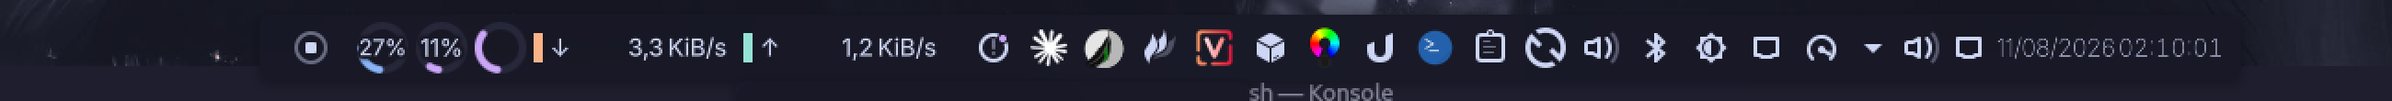
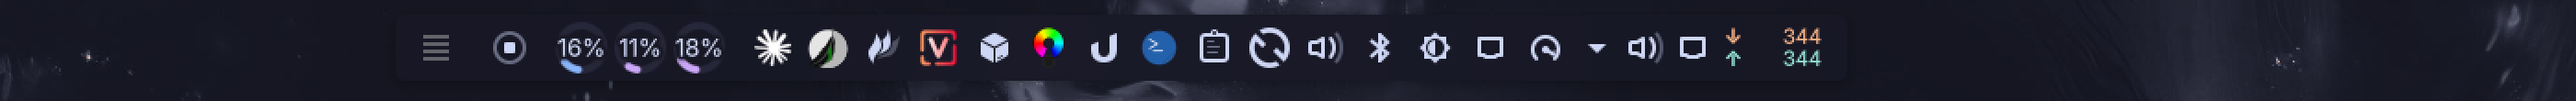
Round 3: custom netspeed + peek plasmoids, Klassy deco, Burn-My-Windows, custom KSplash, yakuake skin, desktop widgets

diff --git a/plasma/plasmoids/com.hieubt.netspeed/contents/ui/main.qml b/plasma/plasmoids/com.hieubt.netspeed/contents/ui/main.qml
@@ -1,0 +1,65 @@
+import QtQuick
+import QtQuick.Layouts
+import org.kde.plasma.plasmoid
+import org.kde.ksysguard.sensors as Sensors
+
+PlasmoidItem {
+    id: root
+
+    readonly property color downColor: "#fab387"   // peach
+    readonly property color upColor:   "#94e2d5"   // teal
+
+    Sensors.Sensor { id: downSensor; sensorId: "network/all/download"; updateRateLimit: 1000 }
+    Sensors.Sensor { id: upSensor;   sensorId: "network/all/upload";   updateRateLimit: 1000 }
+
+    function fmt(bytes) {
+        if (bytes >= 1073741824) return (bytes / 1073741824).toFixed(1) + "G"
+        if (bytes >= 1048576)    return (bytes / 1048576).toFixed(1) + "M"
+        if (bytes >= 1024)       return Math.round(bytes / 1024) + "K"
+        return Math.round(bytes || 0) + ""
+    }
+
+    preferredRepresentation: fullRepresentation
+
+    fullRepresentation: Item {
+        id: rep
+
+        TextMetrics {
+            id: metrics
+            font.pixelSize: 11
+            text: "888.8M"
+        }
+
+        Layout.minimumWidth: metrics.width + 20
+        Layout.preferredWidth: Layout.minimumWidth
+        Layout.maximumWidth: Layout.minimumWidth
+        Layout.fillHeight: true
+
+        GridLayout {
+            anchors.centerIn: parent
+            columns: 2
+            rowSpacing: -2
+            columnSpacing: 3
+
+            Text { text: "↓"; color: root.downColor; font.pixelSize: 11; font.bold: true }
+            Text {
+                text: root.fmt(downSensor.value)
+                color: root.downColor
+                font.pixelSize: 11
+                horizontalAlignment: Text.AlignRight
+                Layout.preferredWidth: metrics.width
+            }
+            Text { text: "↑"; color: root.upColor; font.pixelSize: 11; font.bold: true }
+            Text {
+                text: root.fmt(upSensor.value)
+                color: root.upColor
+                font.pixelSize: 11
+                horizontalAlignment: Text.AlignRight
+                Layout.preferredWidth: metrics.width
+            }
+        }
+    }
+
+    toolTipMainText: "Mạng"
+    toolTipSubText: "↓ " + fmt(downSensor.value) + "B/s   ↑ " + fmt(upSensor.value) + "B/s"
+}

diff --git a/plasma/look-and-feel/org.kde.catppuccin.splash/contents/splash/Splash.qml b/plasma/look-and-feel/org.kde.catppuccin.splash/contents/splash/Splash.qml
@@ -1,0 +1,71 @@
+import QtQuick 2.5
+
+Rectangle {
+    id: root
+    color: "#1e1e2e"
+
+    property int stage
+    onStageChanged: {
+        if (stage == 1) introAnimation.running = true
+    }
+
+    Image {
+        anchors.fill: parent
+        source: "images/background.jpg"
+        fillMode: Image.PreserveAspectCrop
+        opacity: 0.85
+    }
+
+    Item {
+        id: content
+        anchors.fill: parent
+        opacity: 0
+        TextMetrics {
+            id: units
+            text: "M"
+            property int gridUnit: boundingRect.height
+            property int largeSpacing: units.gridUnit
+            property int smallSpacing: Math.max(2, gridUnit / 4)
+        }
+
+        // chữ chào giữa màn
+        Text {
+            anchors.horizontalCenter: parent.horizontalCenter
+            anchors.bottom: bar.top
+            anchors.bottomMargin: units.gridUnit * 2
+            text: "hieubt"
+            color: "#cdd6f4"
+            font.pointSize: 22
+            font.weight: Font.Light
+        }
+
+        // thanh nạp mauve
+        Rectangle {
+            id: bar
+            anchors.centerIn: parent
+            anchors.verticalCenterOffset: parent.height / 4
+            width: parent.width / 5
+            height: 6
+            radius: 3
+            color: "#313244"
+
+            Rectangle {
+                height: parent.height
+                radius: 3
+                color: "#cba6f7"
+                width: (root.stage / 6) * parent.width
+                Behavior on width { NumberAnimation { duration: 250; easing.type: Easing.InOutQuad } }
+            }
+        }
+    }
+
+    OpacityAnimator {
+        id: introAnimation
+        running: false
+        target: content
+        from: 0
+        to: 1
+        duration: 800
+        easing.type: Easing.InOutQuad
+    }
+}

diff --git a/plasma/plasmoids/com.hieubt.peek/contents/ui/main.qml b/plasma/plasmoids/com.hieubt.peek/contents/ui/main.qml
@@ -1,0 +1,54 @@
+import QtQuick
+import QtQuick.Layouts
+import org.kde.plasma.plasmoid
+import org.kde.plasma.plasma5support as P5Support
+
+PlasmoidItem {
+    id: root
+
+    readonly property color mauve: "#cba6f7"
+
+    P5Support.DataSource {
+        id: runner
+        engine: "executable"
+        onNewData: (sourceName) => disconnectSource(sourceName)
+    }
+
+    preferredRepresentation: fullRepresentation
+
+    fullRepresentation: Item {
+        id: rep
+        Layout.minimumWidth: 10
+        Layout.preferredWidth: 10
+        Layout.maximumWidth: 10
+        Layout.fillHeight: true
+
+        Rectangle {
+            id: chip
+            anchors.fill: parent
+            anchors.topMargin: 6
+            anchors.bottomMargin: 6
+            anchors.leftMargin: 3
+            anchors.rightMargin: 3
+            radius: 2
+            color: mouse.containsMouse ? root.mauve : "transparent"
+            opacity: mouse.containsMouse ? 0.9 : 0.5
+            border.width: 1
+            border.color: root.mauve
+
+            Behavior on color { ColorAnimation { duration: 150 } }
+            Behavior on opacity { NumberAnimation { duration: 150 } }
+        }
+
+        MouseArea {
+            id: mouse
+            anchors.fill: parent
+            hoverEnabled: true
+            onClicked: runner.connectSource(
+                "qdbus6 org.kde.kglobalaccel /component/kwin org.kde.kglobalaccel.Component.invokeShortcut 'Show Desktop'")
+        }
+    }
+
+    toolTipMainText: "Peek desktop"
+    toolTipSubText: "Bấm để hiện desktop"
+}

diff --git a/README.md b/README.md
@@ -16,7 +16,13 @@ A complete **Catppuccin Mocha (Mauve accent)** desktop for **Kubuntu 26.04 / KDE
 | Window deco | Breeze (follows color scheme) + rounded corners everywhere | [KDE-Rounded-Corners] |
 | KWin effects | blur 12, wobbly windows, magic lamp, scale, sheet, cube, dim screen | built-in |
 | Panels | Floating auto-hide top bars (both screens, compact ☰ global menu, media controls) + Win11-style floating taskbar; peek-at-desktop via bottom-right hot corner | `plasma/panels-v5.js` |
-| Monitors | Synced pie charts CPU / RAM / GPU + compact ↓↑ network numbers | built-in system monitor |
+| Monitors | Synced pie charts CPU / RAM / GPU + custom fixed-width net-speed plasmoid | `plasma/plasmoids/com.hieubt.netspeed` |
+| Peek chip | Win11-style slim peek-at-desktop chip (mauve, hover glow) + hot corner | `plasma/plasmoids/com.hieubt.peek` |
+| Window deco 2 | **Klassy** decoration (built from source) with pin/keep-above buttons, mauve active outline glow | [paulmcauley/klassy] |
+| Close FX | **Burn-My-Windows** fire effect on window close (energize-a, tv-glitch, portal also installed) | [Schneegans/Burn-My-Windows] |
+| KSplash | Custom `org.kde.catppuccin.splash` — blurred purpled-night + mauve progress bar | `plasma/look-and-feel/` |
+| Yakuake | Catppuccin mocha skin + same Konsole profile | [catppuccin/yakuake] |
+| Desktop | Analog clock + weather widgets on secondary screen, 4 virtual desktops + Cube | scripted |
 | SDDM | [SilentSDDM] `catppuccin-mocha` preset — custom background, mauve accent, real avatar, small password dots | `sddm/` |
 | Lock screen | Custom look-and-feel `org.kde.catppuccin.lock` — smaller password dots, blurred wallpaper matching SDDM | `plasma/look-and-feel/` |
 | Terminal | Konsole/Yakuake mocha scheme (88% opacity + blur), fastfetch, powerlevel10k mocha palette | `terminal/` |
@@ -82,6 +88,8 @@ Catppuccin **Mocha**, accent **Mauve** `#cba6f7` — base `#1e1e2e`, surface `#3
 - [uiriansan/SilentSDDM](https://github.com/uiriansan/SilentSDDM) — the gorgeous Qt6 SDDM theme
 - [matinlotfali/KDE-Rounded-Corners](https://github.com/matinlotfali/KDE-Rounded-Corners) — rounded corners KWin effect
 - [vinceliuice/Tela-circle-icon-theme](https://github.com/vinceliuice/Tela-circle-icon-theme) — icon theme
+- [paulmcauley/klassy](https://github.com/paulmcauley/klassy) — window decoration
+- [Schneegans/Burn-My-Windows](https://github.com/Schneegans/Burn-My-Windows) — window open/close effects
 - [orangci/walls-catppuccin-mocha](https://github.com/orangci/walls-catppuccin-mocha) — wallpapers (`galaxy-waves`, `purple-horizon`, `purpled-night`) — grab them from that repo
 
 ## 📄 License
@@ -97,3 +105,6 @@ My own scripts and configs: MIT. Third-party themes keep their upstream licenses
 [vinceliuice/Tela-circle-icon-theme]: https://github.com/vinceliuice/Tela-circle-icon-theme
 [KDE-Rounded-Corners]: https://github.com/matinlotfali/KDE-Rounded-Corners
 [SilentSDDM]: https://github.com/uiriansan/SilentSDDM
+[paulmcauley/klassy]: https://github.com/paulmcauley/klassy
+[Schneegans/Burn-My-Windows]: https://github.com/Schneegans/Burn-My-Windows
+[catppuccin/yakuake]: https://github.com/catppuccin/yakuake
